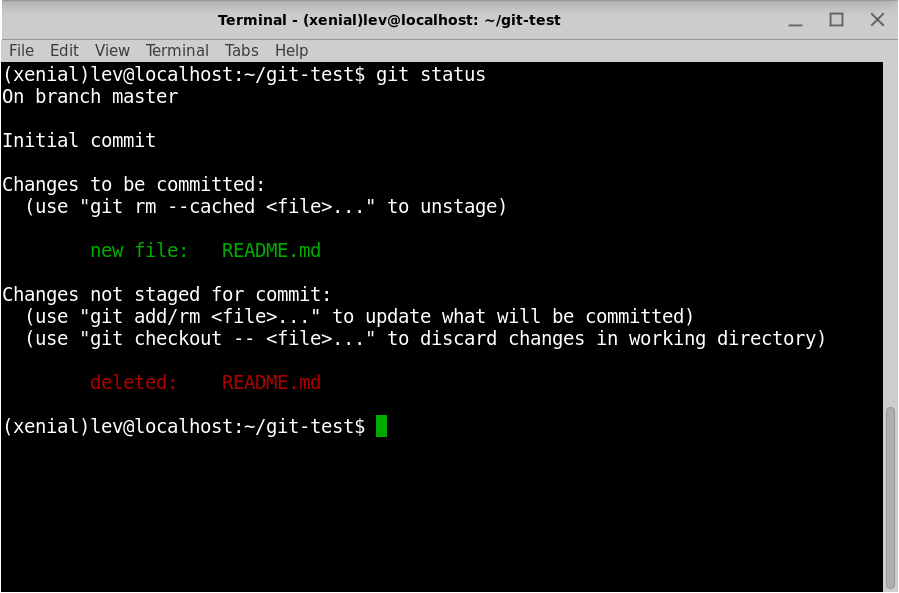
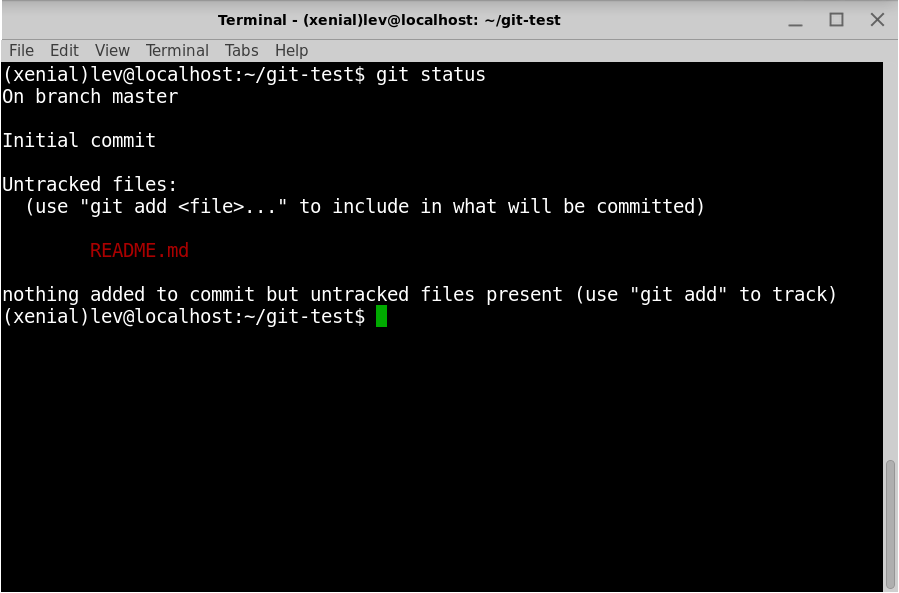
more git

diff --git a/units/fundamentals/lessons/git_and_github/git.md b/units/fundamentals/lessons/git_and_github/git.md
@@ -39,20 +39,7 @@ Initialized empty Git repository in  /home/lev/git-test/.git/
 
 ### Initial Commit
 
-```bash
-$ touch README.md
-$ git status
-On branch master
-
-Initial commit
-
-Untracked files:
-  (use "git add <file>..." to include in what will be committed)
-
-        README.md
-
-nothing added to commit but untracked files present (use "git add" to track)
-```
+![001](screenshots/001.png)
 
 We see here that the README.md file is “untracked”, which means Git doesn’t yet know about it. We can add it using the `git add` command:
 
@@ -61,8 +48,252 @@ $ git add .
 ```
 
 Here the `.` tells Git to add all untracked files, even if in this case there’s only one.
-Now if we do `git status` again:
+Now if we write `git status` again:
 
-![001](screenshots/001.png)
+![002](screenshots/002.png)
 
+As implied by the word *unstage*, the status of the file has been promoted from untracked to *staged*, which means the file is ready to be added to the repository. Untracked / unstaged and staged are two of the four states commonly used by Git.
 
+![git status sequence](assets/git_status_sequence.png)
+
+After putting changes in the staging area we can make them part of the local repository by committing them using `git commit`. Most uses of git commit use the command-line option `-m` to include a message indicating the purpose of the commit. In this case, the purpose is to initialize the new repository, which we can indicate as follows:
+
+```bash
+$ git commit -m "initialize"
+[master (root-commit) 38aeeb2] initialize
+ 1 file changed, 0 insertions(+), 0 deletions(-)
+ create mode 100644 README.md
+```
+
+At this point, we can use `git log` to see a record of our commit:
+
+```bash
+$ git log
+commit 38aeeb24b51e4a01a61e1095e1f0efe38b137104
+Author: lizraeli <leo2002b@yahoo.com>
+Date:   Tue Oct 3 18:40:20 2017 -0400
+
+    initialize
+```
+
+The commit is identified by a hash, which is a unique string of letters and numbers that Git uses to label the commit and which lets Git retrieve the commit’s changes.
+
+### Viewing the diff
+
+It’s often useful to be able to view the changes represented by a potential commit before making it. To see how this works, let’s add a little bit of content to `README.md` by redirecting the output of `echo`:
+
+```bash
+$ echo "hello world" > README.md
+```
+
+The `git diff` shows the difference between the last commit and unstaged changes in the current project:
+
+![003](screenshots/003.png)
+
+We can commit this change by passing the `-a` option (for “all”) to `git commit`, which arranges to commit all the changes in currently existing files.
+
+```bash
+$ git commit -a -m "add content to readme"
+[master 092beb2] add content to readme
+ 1 file changed, 1 insertion(+)
+```
+
+Note that the `-a` option includes changes only to files already added to the repository, so when there are new files it’s important to run `git add .` to make sure they’re added properly.
+
+Having added and committed the changes, there’s now no diff:
+
+```bash
+$ git diff
+$
+```
+
+In fact, simply adding the changes is sufficient; running git add -A would also lead to there being no diff. To see the difference between staged changes and the previous version of the repo, use `git diff --staged`.
+
+We can confirm that the change went through by running `git log`:
+
+![004](screenshots/004.png)
+
+### Adding an Markdown tag
+
+Adding a `#` before the text `hello world` will cause it to appear as a header:
+
+```markdown
+# hello, world
+```
+
+As before, we’ll run git status and git diff to learn more about what we’re going to commit to Git. The status simply indicates that `README.md` has been modified:
+
+![005](screenshots/005.png)
+
+Meanwhile, the diff shows that one line has been deleted (indicated with -) and another added (indicated with +):
+
+![006](screenshots/006.png)
+
+At this point, we’re ready to commit our changes. Earlier we used both the -a and -m options to commit all pending changes while adding a commit message, but in fact the two can be combined as -am.
+
+```bash
+$ git commit -am "Add a # tag"
+[master ea24eb6] Add a # tag
+ 1 file changed, 1 insertion(+), 1 deletion(-)
+```
+
+### Adding a line of text
+
+Let's add a blank line followed by our name to `README.md`:
+
+```markdown
+# Hello, world
+
+My name is Lev
+```
+
+As usual, we can see the changes represented by our addition using `git diff`:
+
+![007](screenshots/007.png)
+
+### Push
+
+On the [github home page](https://github.com), click on the green **New Repository** button. In the next screen, give a name to the repository (`git-test`) and click on the green **Create Repository** button. In the following screen, copy the url under **Quick Setup**. It should look like `https://github.com/<user>/git-test.git`, where `<user>` is your username. Now run the following two commands, replacing `<url>` with the one you copied from the github website. Following the second command you may be prompted for you github username and password.
+
+```bash
+$ git remote add origin <url>
+$ git push -u origin master
+```
+
+The two commands first set GitHub as the remote origin and then push the full repository. The  `-u` option to `git push` sets GitHub as the upstream repository, which means we’ll be able to download any changes automatically when we run `git pull` later.
+
+After executing the first `git push` as shown above, something like the following should appear in your terminal:
+
+```bash
+Counting objects: 9, done.
+Delta compression using up to 4 threads.
+Compressing objects: 100% (3/3), done.
+Writing objects: 100% (9/9), 654 bytes | 0 bytes/s, done.
+Total 9 (delta 0), reused 0 (delta 0)
+To https://github.com/lizraeli/git-test.git
+ * [new branch]      master -> master
+Branch master set up to track remote branch master from origin.
+```
+
+Now, reload the page on github. It should now look like this:
+
+![008](screenshots/008.png)
+
+### The Readme File
+
+By default, github renders the markdown content of the Readme file in your repository home folder. Let's create a new file titled `hello.js`, with the following content:
+
+```js
+function hello(){
+    console.log('hello world');
+}
+```
+
+The `git status` command should show the `hello.js` file as untracked. Now run the following commands:
+
+```bash
+$ git add .
+$ git commit -am "added file hello.js"
+[master 6254e59] added file hello.js
+ 1 file changed, 3 insertions(+)
+ create mode 100644 hello.js
+```
+
+Now we can push the latest commit to our remote repo on the github website:
+
+```bash
+$ git push origin master
+Username for 'https://github.com': lizraeli
+Password for 'https://lizraeli@github.com':
+Counting objects: 3, done.
+Delta compression using up to 4 threads.
+Compressing objects: 100% (3/3), done.
+Writing objects: 100% (3/3), 323 bytes | 0 bytes/s, done.
+Total 3 (delta 0), reused 0 (delta 0)
+To https://github.com/lizraeli/git-test.git
+   ea24eb6..6254e59  master -> master
+```
+
+Refershing the page on github should show the new file, and clicking on the file will lead to a new screen where the file's code is rendered.
+
+![009](screenshots/009.png)
+
+### Clone
+
+As an example of a common collaboration workflow, we’ll simulate the case of two developers working on the same project, Peter and Lev. Lev would need to add Peter as a collaborator on the website repository, by going to the repo web page and clicking on Settings > Collaborators, and then putting Peter's GitHub username in the *Add collaborator* box.
+
+Once Peter gets the notification that he’s been added to the website repository, he can go to GitHub to get its url. This URL lets Peter make a full copy of the repository, including its history, using `git clone`. For now we will create a `temp` folder in our home directory, and `cd` into it.
+
+```bash
+(xenial)lev@localhost:~/git-test$ cd ..
+(xenial)lev@localhost:~$ mkdir temp
+(xenial)lev@localhost:~$ cd temp
+(xenial)lev@localhost:~/temp$
+```
+
+Now, we can clone our own repo into the temp folder:
+
+```bash
+$ git clone <url> git-test
+Cloning into 'git-test'...
+remote: Counting objects: 12, done.
+remote: Compressing objects: 100% (6/6), done.
+remote: Total 12 (delta 0), reused 12 (delta 0), pack-reused 0
+Unpacking objects: 100% (12/12), done.
+Checking connectivity... done.
+```
+
+Now we have a copy of our repo has been created in a new `~/temp/git-test` directory. Now we will `cd` into the directory, and modify the `README.md` file:
+
+```markdown
+# Test Repo
+
+[our js file](hello.js)
+```
+
+The syntax above is a link: the text between the square brackets is the text, and the square between the parentheses is the link itself. Since it does not include `http` or `www` it will be interpreted as a relative link in the current folder, to the file `hello.js`. Now, running `git-diff`:
+
+![010](screenshots/010.png)
+
+We see that the `hello, world` line has been removed, and  three new lines have been added. Now we will run `git commit`:
+
+```bash
+$ git commit -am "added a link in readme to hello.js"
+[master 9fbf058] added a link in readme to hello.js
+ 1 file changed, 3 insertions(+), 1 deletion(-)
+```
+
+And `git push`:
+
+```bash
+$ git push origin master
+Username for 'https://github.com': lizraeli
+Password for 'https://lizraeli@github.com': 
+Counting objects: 3, done.
+Delta compression using up to 4 threads.
+Compressing objects: 100% (2/2), done.
+Writing objects: 100% (3/3), 325 bytes | 0 bytes/s, done.
+Total 3 (delta 0), reused 0 (delta 0)
+To https://github.com/lizraeli/git-test.git
+   6254e59..9fbf058  master -> master
+```
+
+### Pull
+
+Going back to the original repo in `~/git-test`, we will run the command `git pull` to get the latest changes:
+
+```bash
+~/git-test$ git pull
+remote: Counting objects: 3, done.
+remote: Compressing objects: 100% (2/2), done.
+remote: Total 3 (delta 0), reused 3 (delta 0), pack-reused 0
+Unpacking objects: 100% (3/3), done.
+From https://github.com/lizraeli/git-test
+   6254e59..9fbf058  master     -> origin/master
+Updating 6254e59..9fbf058
+Fast-forward
+ README.md | 4 +++-
+ 1 file changed, 3 insertions(+), 1 deletion(-)
+```
+
+Since there are no conflicts with local files, the local ones have been updated. We can see a list of the files changed (just one in this case) and a summary of the changes on the last line.

diff --git a/units/fundamentals/lessons/git_and_github/git_and_github.md b/units/fundamentals/lessons/git_and_github/git_and_github.md
@@ -301,5 +301,4 @@ index 0000000..03902a1
 
 ## Github
 
-GitHub is the single largest host for Git repositories, and is the central point of collaboration for millions of developers and projects. A large percentage of all Git repositories are hosted on GitHub, and many open-source projects use it for Git hosting, issue tracking, code review, and other things. 
-
+GitHub is the single largest host for Git repositories, and is the central point of collaboration for millions of developers and projects. A large percentage of all Git repositories are hosted on GitHub, and many open-source projects use it for Git hosting, issue tracking, code review, and other things.
